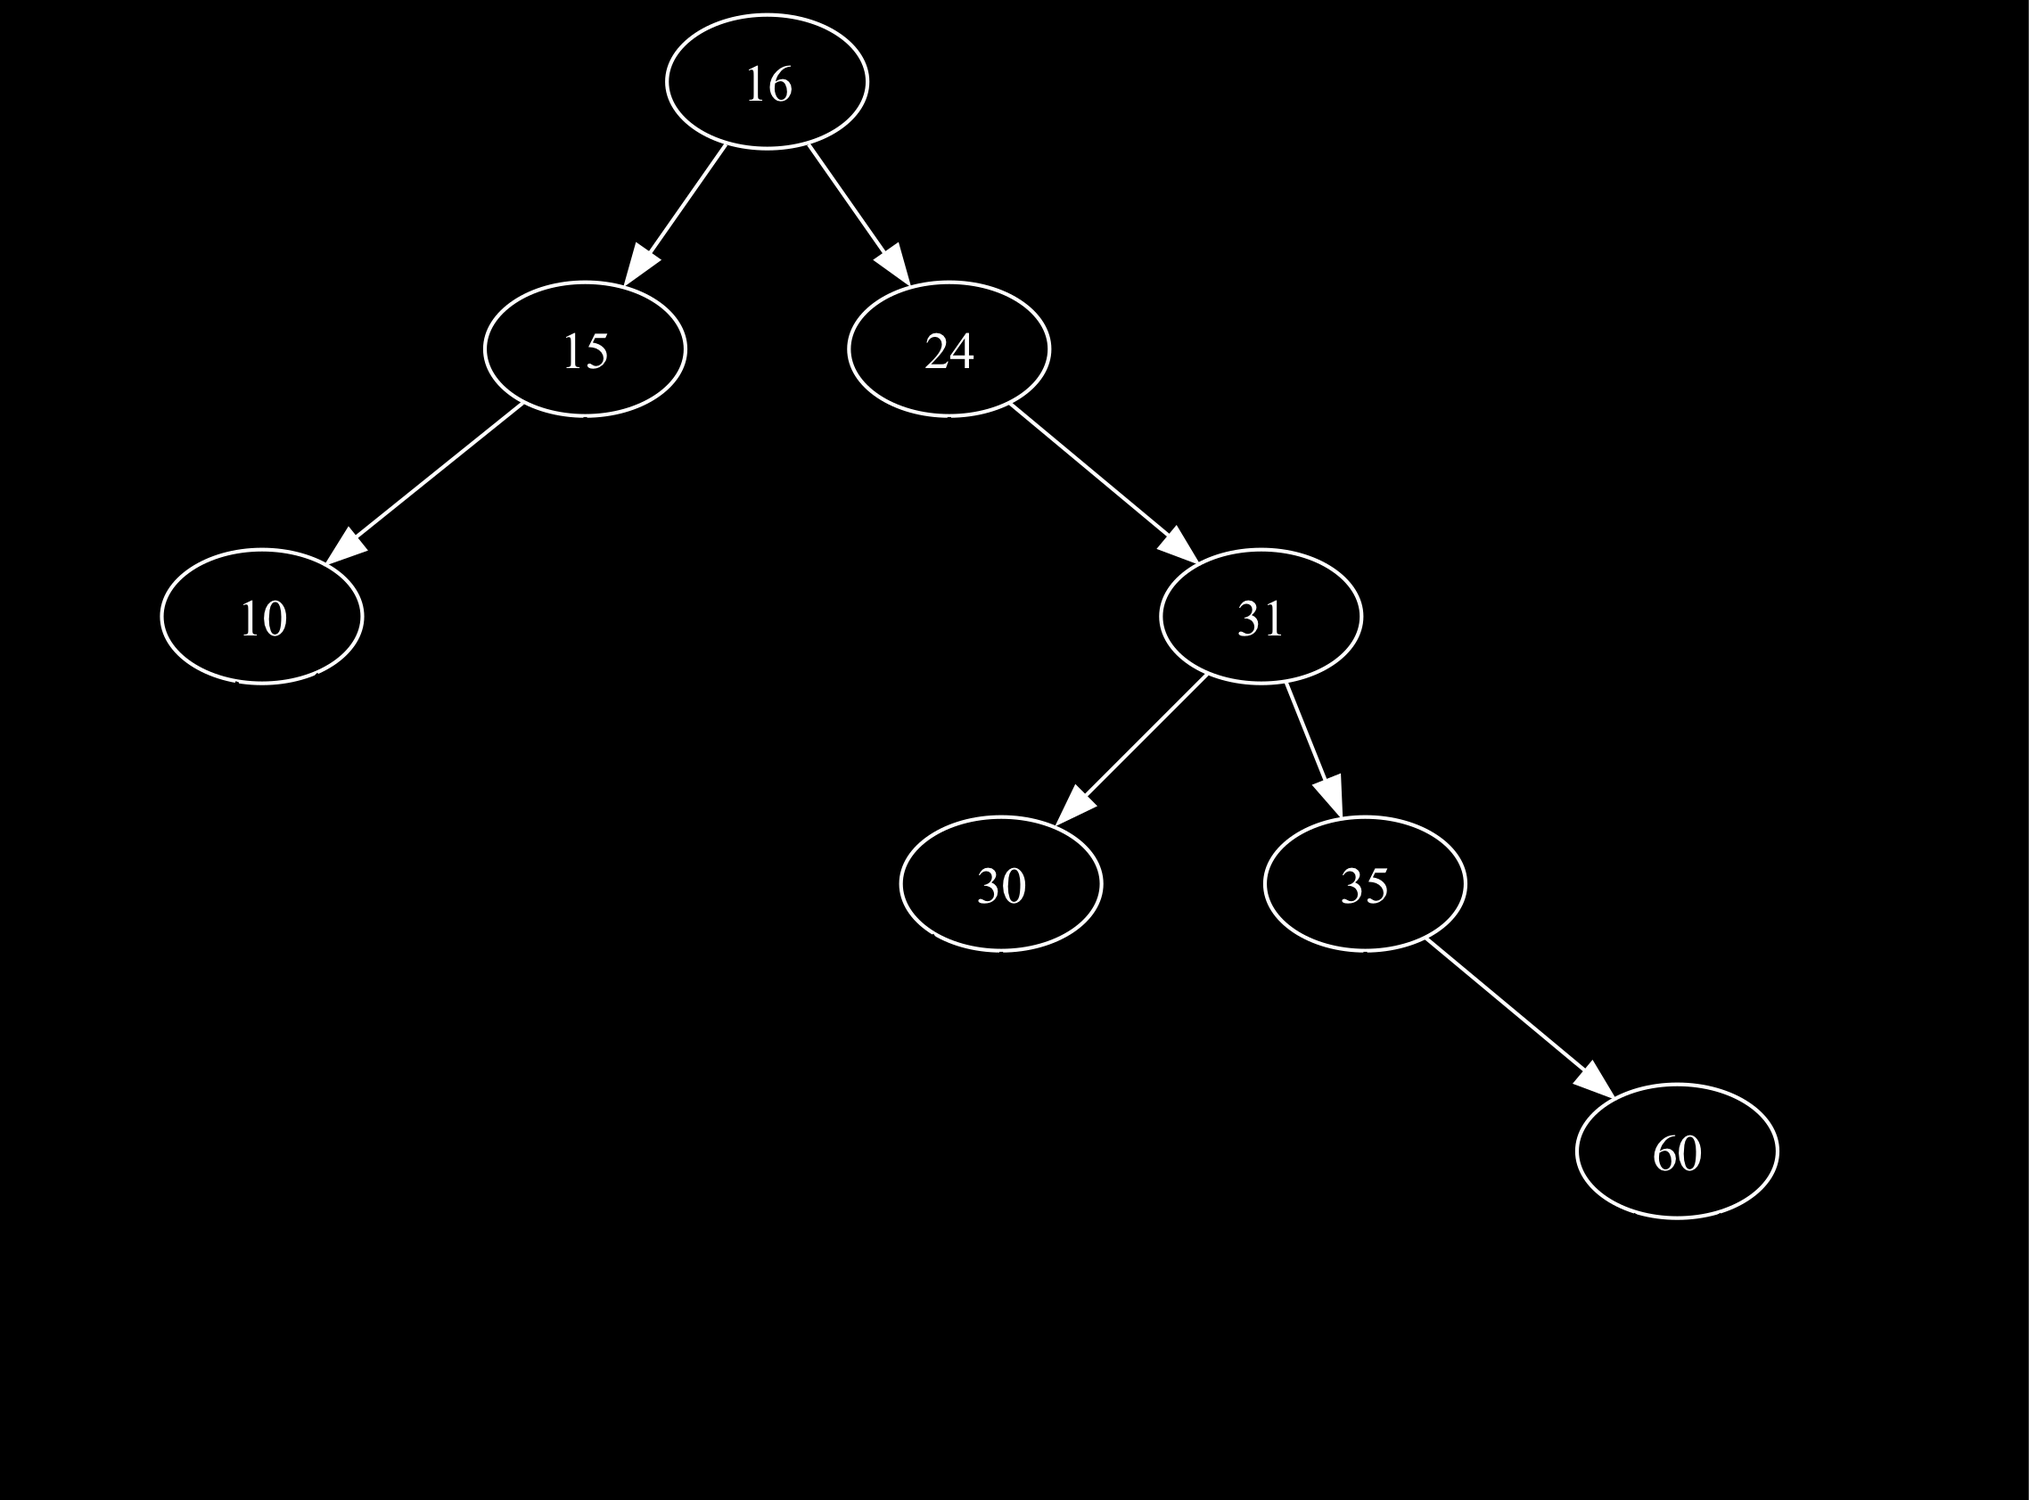
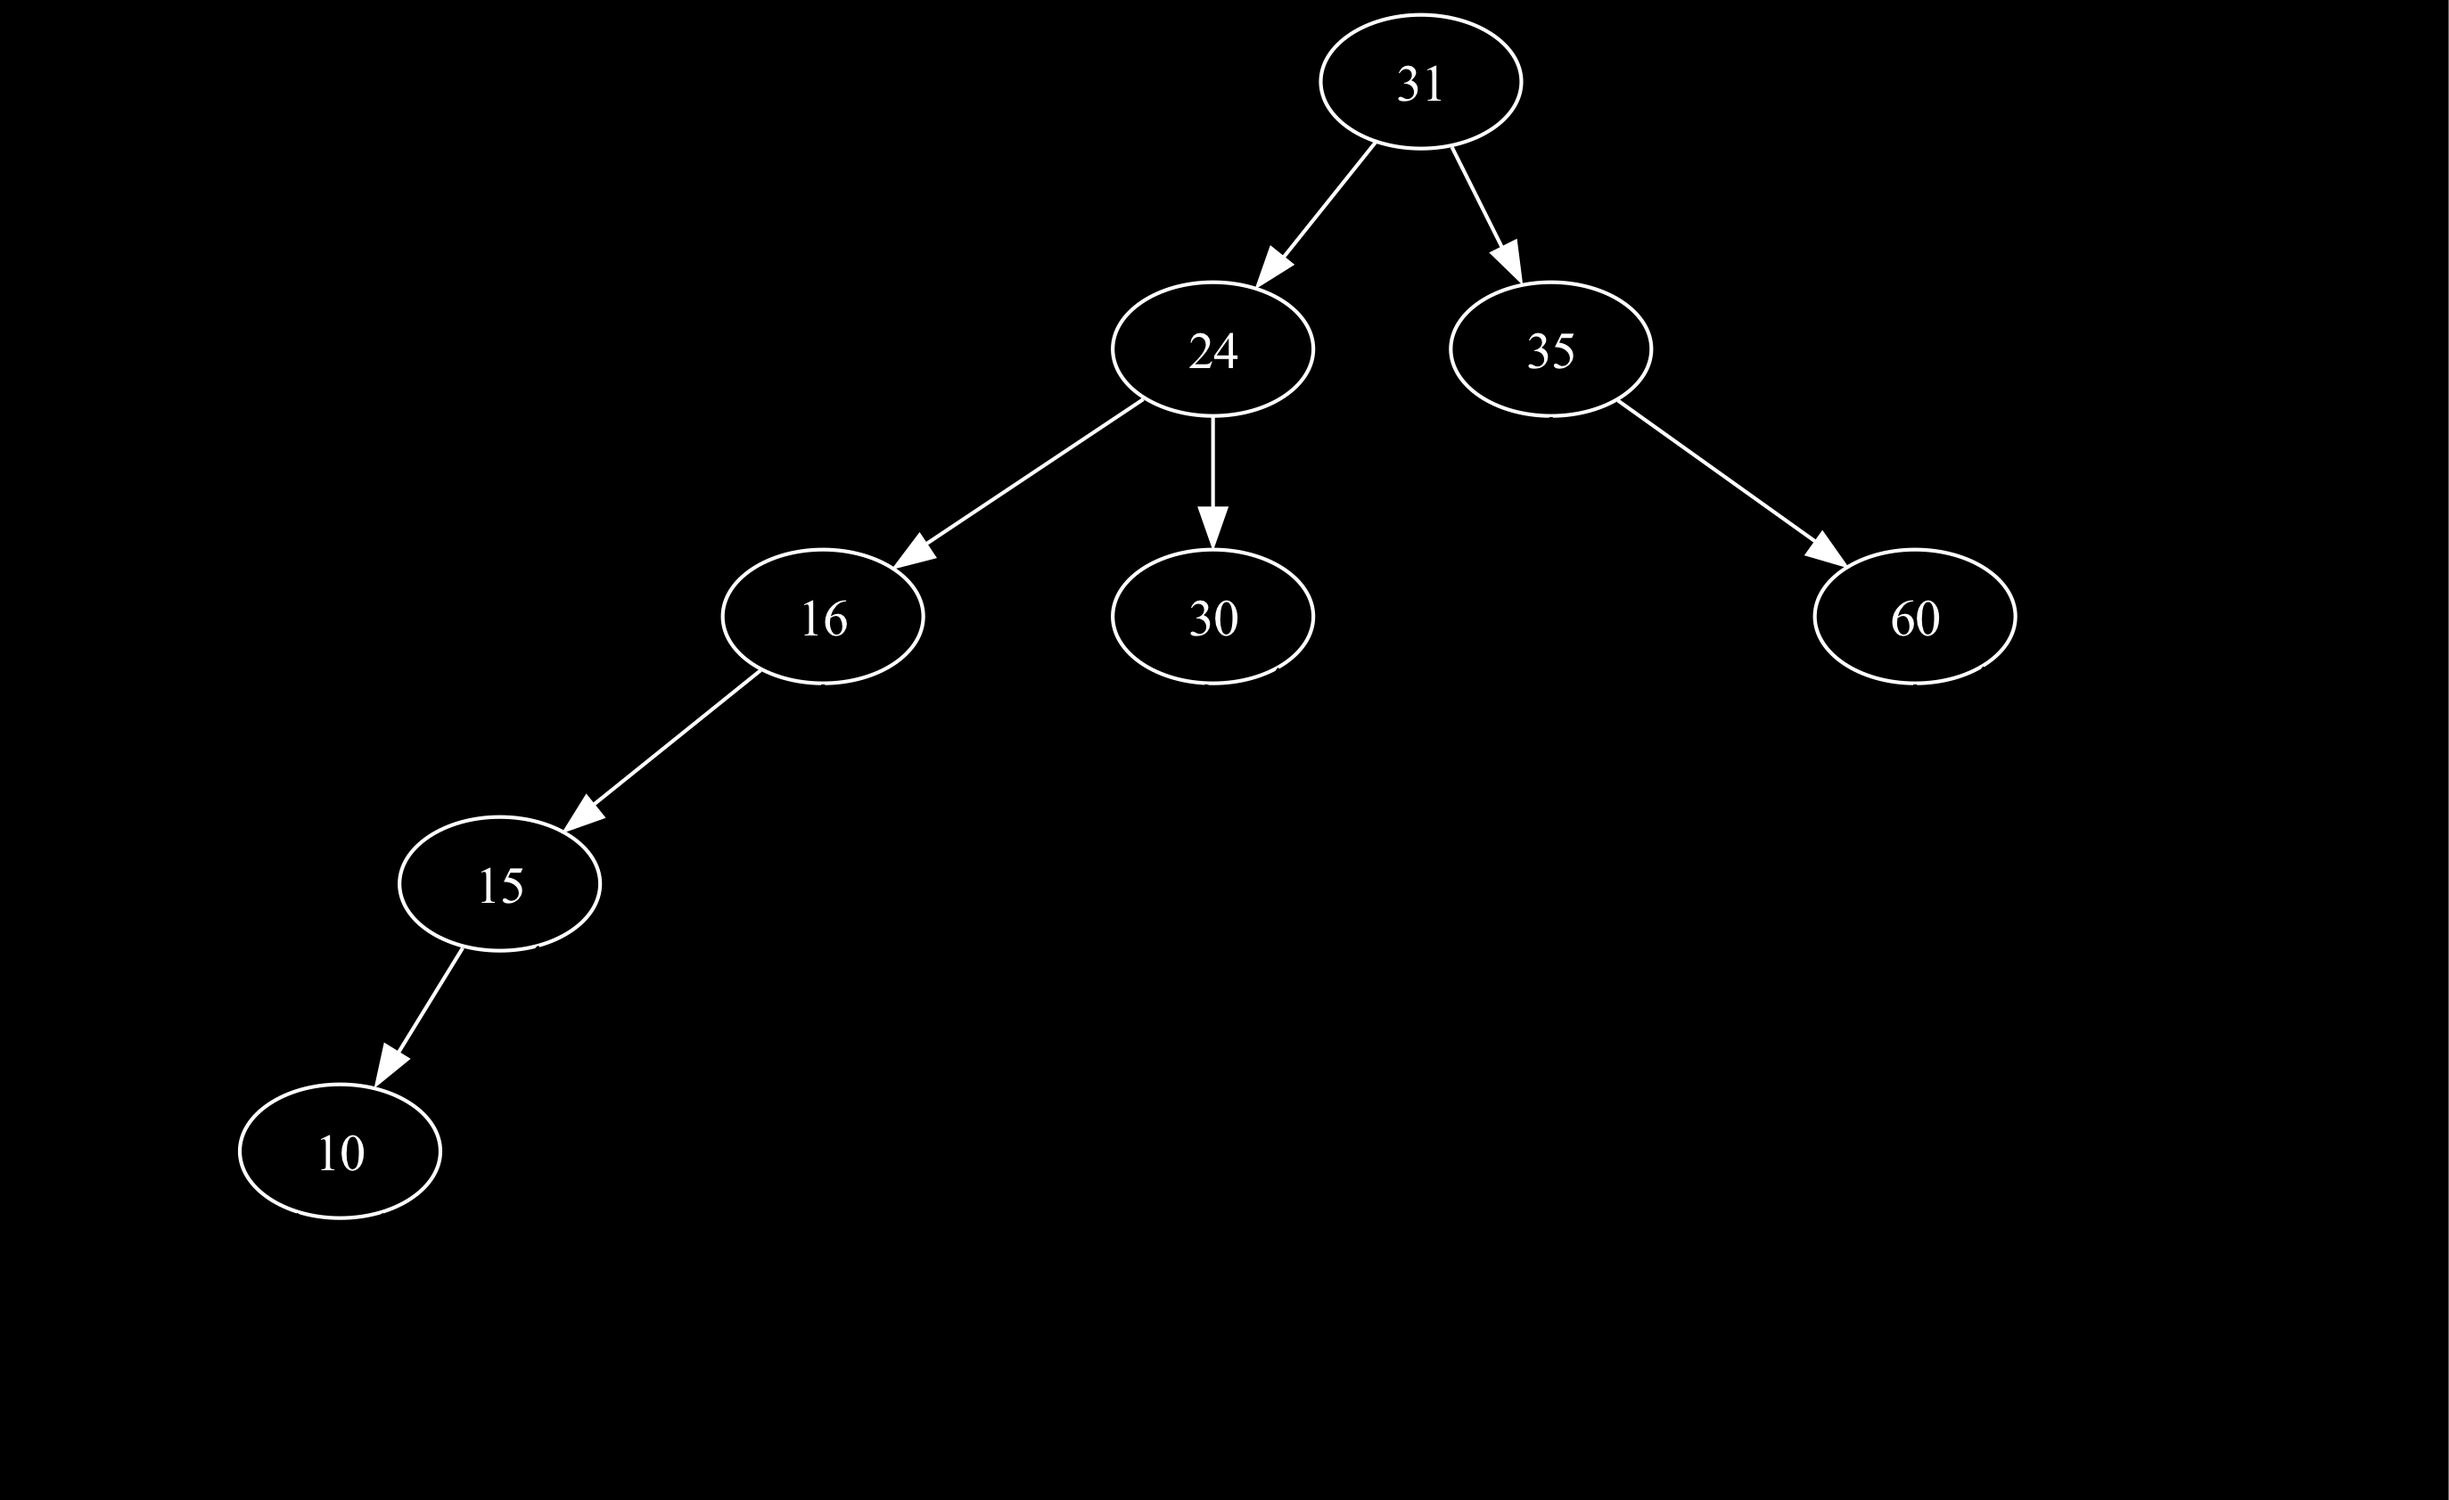
trying to connect the front end to the back end now

diff --git a/TreeItems/SplayTree.py b/TreeItems/SplayTree.py
@@ -7,14 +7,14 @@ class Node:                     # reimplemented to include parent local variable
         self.right = None       # right node option
         self.parent = None      # parent node option -- necessary for splay to work as intended.
     def __str__(self):
-        print(self.key)         # not sure why this doesn't work :/
+        return str(self.key)         # not sure why this doesn't work :/
 
 class SplayTree:                # with this rewrite I decided to make the tree an object
     def __init__(self, tree):
         if tree:
             self.root = tree
         else:
-            None
+            self.root = None
 
     def zig(self, x):
         p = x.parent
@@ -114,65 +114,61 @@ class SplayTree:                # with this rewrite I decided to make the tree a
             return None
         return None
 
-    # this may just need to be rewritten
+    # it uses search.
     def delete(self, key):
-        return None
-        # node_to_delete = self.search(key)
-        # if node_to_delete is None:
-        #     return
+        node_to_delete = self.search(key) # returns node if it exists, otherwise just splays the tree
+        if node_to_delete is None:
+             return                       # key didn't exist
 
-        # self.splay(node_to_delete)
-        # if node_to_delete.left and node_to_delete.right:
-        #     min_node = node_to_delete.left
-        #     while min_node.right:
-        #         min_node = min_node.right
-        #     node_to_delete.key = min_node.key
-        #     if min_node.parent.right == min_node:
-        #         min_node.parent.right = min_node.left
-        #     else:
-        #         min_node.parent.left = min_node.left
-        #     if min_node.left:
-        #         min_node.left.parent = min_node.parent
-        # else:
-        #     if node_to_delete.left:
-        #         self.root = node_to_delete.left
-        #     else:
-        #         self.root = node_to_delete.right
+        if node_to_delete.left and node_to_delete.right: # if both exist, we need to do weird stuff
+            min_node = node_to_delete.left               # looks for the highest node in the left subtree (inorder successor)
+            while min_node.right:
+                min_node = min_node.right
+            node_to_delete.key = min_node.key
+            if min_node.parent.right == min_node:
+                min_node.parent.right = min_node.left
+            else:
+                min_node.parent.left = min_node.left
+            if min_node.left:
+                min_node.left.parent = min_node.parent
+        else:                                            # if only one exists, we only need that subtree
+            if node_to_delete.left:
+                self.root = node_to_delete.left
+            else:
+                self.root = node_to_delete.right
 
-        #     if self.root:
-        #         self.root.parent = None
+            if self.root:
+                self.root.parent = None
     
-    # these three functions will return a list of nodes and I'll determine later how I want to parse that list
-    # may consider adding balance to the tree to see more accurate distance results
-    # using balance may allow me to see what is furthest or closest in the tree allowing for both a recents and a least recents section
+# these three functions will return a list of nodes and I'll determine later how I want to parse that list
+# may consider adding balance to the tree to see more accurate distance results
+# using balance may allow me to see what is furthest or closest in the tree allowing for both a recents and a least recents section
+def inorder(root):
+    lst = []
+    if root.left != None:
+        lst += inorder(root.left)
+    lst.append(root)
+    if root.right != None:
+        lst += inorder(root.right)
+    return lst
+    
+def preorder(root):
+    lst = [root]
+    if root.left != None:
+        lst += preorder(root.left)
+    if root.right != None:
+        lst += preorder(root.right)
+    return lst
+    
+def postorder(root):
+    lst = []
+    if root.left != None:
+        lst += postorder(root.left)
+    if root.right != None:
+        lst += postorder(root.right)
+    lst.append(root)
+    return lst
 
-    def inorder(self, root):
-        lst = []
-        if root.left != None:
-            lst += self.inorder(root.left)
-        lst.append(root)
-        if root.right != None:
-            lst += self.inorder(root.right)
-        return lst
-    
-    def preorder(self, root):
-        lst = [root]
-        if root.left != None:
-            lst += self.preorder(root.left)
-        if root.right != None:
-            lst += self.preorder(root.right)
-        return lst
-    
-    def postorder(self, root):
-        lst = []
-        if root.left != None:
-            lst += self.postorder(root.left)
-        if root.right != None:
-            lst += self.postorder(root.right)
-        lst.append(root)
-        return lst
-
-    
 # new load_tree function that plays with json strings... *yay*
 # this actually wasn't that bad to put together with the parent portion
 def load_tree(json_str: str) -> Node:

diff --git a/Tests.py b/Tests.py
@@ -1,6 +1,6 @@
 from TreeItems.SplayTree import *
 from pydot_graph_util import *
-import copy
+import copy, unittest
 
 # Understand that I would use more unit testing here, but it would require me to paste and play with these json strings which are already annoying to write. They're not really here for me to actually type out.
 # it's much easier for me to run these functions and then compare the images that are produced using the visualizer file to an online splay tree calculator or do it by hand. I'm sure if I really wanted to I could just make the trees and then
@@ -27,7 +27,7 @@ example_tree4 = SplayTree(load_tree("""{"k": 30, "l": {"k": 10, "l": null, "r": 
 # gpt helped make these trees because these json strings are annoying to type out
 gpt_tree = SplayTree(load_tree("""{"k": 5, "l": {"k": 3, "l": {"k": 1, "l": null, "r": null}, "r": {"k": 4, "l": null, "r": null}}, "r": {"k": 7, "l": {"k": 6, "l": null, "r": null}, "r": {"k": 8, "l": null, "r": null}}}"""))
 gpt_tree2 = SplayTree(load_tree("""{"k": 5, "l": {"k": 3, "l": {"k": 1, "l": {"k": 0, "l": null, "r": null}, "r": {"k": 2, "l": null, "r": null}}, "r": {"k": 4, "l": null, "r": null}}, "r": {"k": 7, "l": {"k": 6, "l": null, "r": null}, "r": {"k": 8, "l": {"k": 9, "l": null, "r": null}, "r": null}}}"""))
-gpt_tree3 = SplayTree(load_tree("""{"k": 5, "l": {"k": 3, "l": {"k": 1, "l": {"k": 0, "l": {"k": -1, "l": null, "r": null}, "r": null}, "r": {"k": 2, "l": null, "r": {"k": 2.5, "l": null, "r": null}}}, "r": {"k": 4, "l": null, "r": null}}, "r": {"k": 7, "l": {"k": 6, "l": null, "r": null}, "r": {"k": 8, "l": {"k": 9, "l": null, "r": {"k": 10, "l": null, "r": null}}, "r": null}}}"""))
+gpt_tree3 = SplayTree(load_tree("""{"k": 5, "l": {"k": 3, "l": {"k": 1, "l": {"k": 0, "l": {"k": -1, "l": null, "r": null}, "r": null}, "r": {"k": 2, "l": null, "r": {"k": 2.5, "l": null, "r": null}}}, "r": {"k": 4, "l": null, "r": null}}, "r": {"k": 7, "l": {"k": 6, "l": null, "r": null}, "r": {"k": 8, "l": null, "r": {"k": 9, "l": null, "r": {"k": 10, "l": null, "r": null}}}}}"""))
 
 def printTrees():
     construct_graph(tree.root).write_png('Images/BaseTrees/tree.png')
@@ -121,32 +121,60 @@ def insertTest(): # am just going to insert a ton to the tree
     construct_graph(tree2.root).write_png('Images/InsertTest/insertTest2.png')
 
 def deleteTest(): # am going to delete some from the previous tree
-    return None
+    tree2.delete(10)
+    construct_graph(tree2.root).write_png('Images/DeleteTest/deleteTest.png')
+    tree2.delete(30)
+    construct_graph(tree2.root).write_png('Images/DeleteTest/deleteTest.png')
+    tree2.delete(60)
+    construct_graph(tree2.root).write_png('Images/DeleteTest/deleteTest.png')
+    tree2.delete(35)
+    construct_graph(tree2.root).write_png('Images/DeleteTest/deleteTest.png')
+    tree2.delete(36) # this does not exist in the tree
+    construct_graph(tree2.root).write_png('Images/DeleteTest/deleteTest.png')
+    tree2.delete(16)
+    construct_graph(tree2.root).write_png('Images/DeleteTest/deleteTest.png')
+    tree2.delete(24)
+    construct_graph(tree2.root).write_png('Images/DeleteTest/deleteTest.png')
+    tree2.delete(31)
+    construct_graph(tree2.root).write_png('Images/DeleteTest/deleteTest.png')
 
 def splayTest():
-    # splay existing
-    # splay nonexisting
-    return None
+    existGpt = copy.deepcopy(gpt_tree3)
+    construct_graph(existGpt.root).write_png('Images/SplayTest/splay.png')
 
 # test will work essentially as a second splay test
 def searchTest():
     # search existing
+    newTree = copy.deepcopy(gpt_tree3)
+    print(newTree.search(9))
+    construct_graph(newTree.root).write_png('Images/SearchTest/existsSearch.png')
     # search nonexisting (inorder predecessor/successor)
-    return None
+    newTree = copy.deepcopy(gpt_tree3)
+    print(newTree.search(11))
+    construct_graph(newTree.root).write_png('Images/SearchTest/nonexistSearch.png')
 
-def inorderTest():
-    return None
+# for unit testing
+class TestStringMethods(unittest.TestCase):
 
-def preorderTest():
-    return None
+    def inorderTest(self):
+        self.assertEqual(inorder(example_tree2.root), [10, 30, 50, 55, 57, 59, 60])
 
-def postorderTest():
-    return None
+    def preorderTest(self):
+        self.assertEqual(preorder(example_tree2.root), [30, 10, 50, 59, 57, 55, 60])
+
+    def postorderTest(self):
+        self.assertEqual(postorder(example_tree2.root), [10, 55, 57, 60, 59, 50, 30])
 
 
 # produces all the graphs from the visualizer in the images directory.
-printTrees()
+# realizing while writing these tests that if I run them all it runs very slowly. May attempt to optimize a little at some point
+# in the splay tree file.
+#printTrees()
 #zigTest()
 #zigZigTest()
 #zigZagTest()
-insertTest()
+#insertTest()
+#deleteTest()
+#splayTest()
+#searchTest()
+unittest.main()

diff --git a/main.py b/main.py
@@ -4,43 +4,45 @@ from FileManagement import *
 from pydot_graph_util import *
 from TreeItems.SplayTree import *
 
-def treeBuilder(path, tree):
+# Builds the tree from what exists in the directory
+def treeBuilder(path, splayTree):
     # starting from the outside
     for name in os.listdir(path):
         new_path = path + '/' + name
         if os.path.isdir(new_path):
-            tree = treeBuilder(new_path, tree)
-    # add the ends
-    for name in os.listdir(path):
-        new_path = path + '/' + name
-        if not os.path.isdir(new_path):
-            tree = insert1(tree, path + '/' + name)
-    return tree
+            treeBuilder(new_path, splayTree)
+        else:
+            splayTree.insert(new_path)
+    return splayTree
 
+# fills the listbox with the items in the ManagedFiles Directory
 def fill_listbox(path):
     listbox.delete(0, tk.END)
     for name in os.listdir(path):
-        listbox.insert1(tk.END, name)
+        listbox.insert(tk.END, name)
 
+# for saving the tree when the file manager is closed--UPDATE TO SAVE
 def on_close():
     # file = open('TreeItems/TreeStorage.txt', 'w') 
     # file.write(dump_tree(tree)) 
     root.destroy()
 
-def on_click(event, tree):
+# Specifically handles when listbox items are clicked
+def on_click(event, tree): # fix this
     # If user double clicks on directory, open it
     index = listbox.curselection()
     file = listbox.get(index)
     new_path = os.path.join(current_directory.get(), file)
 
-    if os.path.isdir(new_path):
+    if os.path.isdir(new_path):          # If it's a directory it sets the current directory to the new path and fixes the listbox
         current_directory.set(new_path)
         fill_listbox(new_path)
-    else:
+    else:                                # otherwise, it opens the file
         open_file(new_path)
-        tree = splay(tree, new_path)
-        construct_graph(tree).write_png('Images/TreeBuilderTest.png')
+        tree.search(new_path)
+        construct_graph(tree.root).write_png('Images/ActiveUse/TreeBuilderTest.png')
 
+# for when the back button is selected
 def go_back():
     current_path = current_directory.get()
     parent_path = os.path.dirname(current_path)
@@ -48,6 +50,7 @@ def go_back():
         current_directory.set(parent_path)
         fill_listbox(parent_path)
 
+# adds a file to the directory
 def new_file():
     print("new file")
 
@@ -64,12 +67,13 @@ initial_directory = home()  # Replace with your path
 # determining the tree existance
 file = open('TreeItems/TreeStorage.txt', 'r')
 line = file.readline().strip()
-tree = load_tree(line)
+tree = SplayTree(load_tree(line))
 file.close()
 
-if tree is None:
-    tree = treeBuilder(initial_directory, None)
-    construct_graph(tree).write_png('Images/TreeBuilderTest.png')
+# checks that files that exist in the directory are added to the tree
+if tree.root is None:
+    tree = treeBuilder(initial_directory, tree)
+    construct_graph(tree.root).write_png('Images/ActiveUse/TreeBuilderTest.png') # to show us the resulting tree
 
 # Buttons
 button_frame = tk.Frame(root)

diff --git a/FileManagement.py b/FileManagement.py
@@ -30,27 +30,25 @@ def fileDeterminer(string):
     else:
         return "Folder"
     
-def create_file(path, filename, root):
-    root = insert(root, path + '/' + filename)
+def create_file(path, filename, splayTree):
+    splayTree.insert(path + '/' + filename)
     open(path + '/' + filename, 'w').close()
-    return root
 
-def create_folder(path, foldername):
+def create_folder(path, foldername, splayTree):
     os.makedirs(path + '/' + foldername)
 
-def delete_path(path, tree):
+def delete_path(path, splayTree):
     if fileDeterminer(path) == 'File':
         os.remove(path)
-        tree = delete(tree, path)
+        splayTree.delete(path)
     elif fileDeterminer(path) == 'Folder':
         file_list = os.listdir(path)
         ## MAY RESULT IN ISSUES
         for file in file_list:
-            tree = delete(tree, file)
+            splayTree.delete(file)
         shutil.rmtree(path)
     else:
         raise RuntimeError("issue somewhere")
-    return tree
 
 # used to obtain the "home" directory for the project
 def home():
